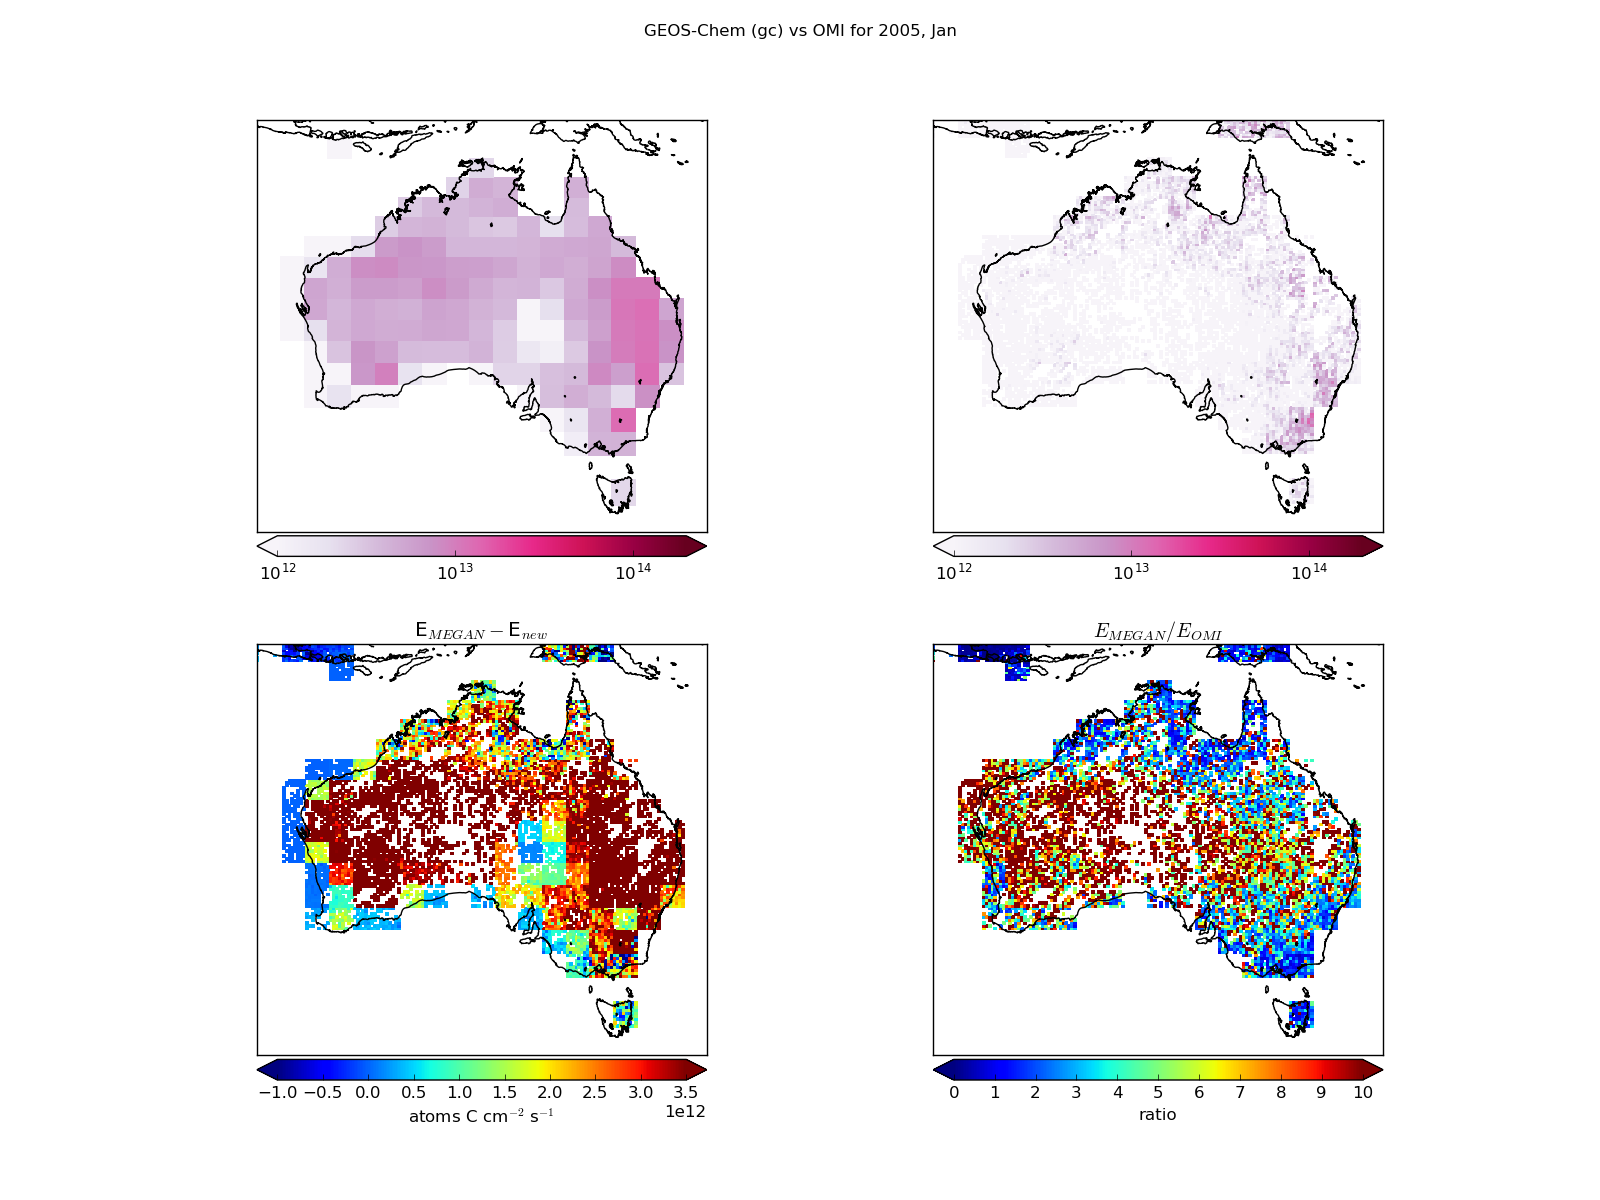
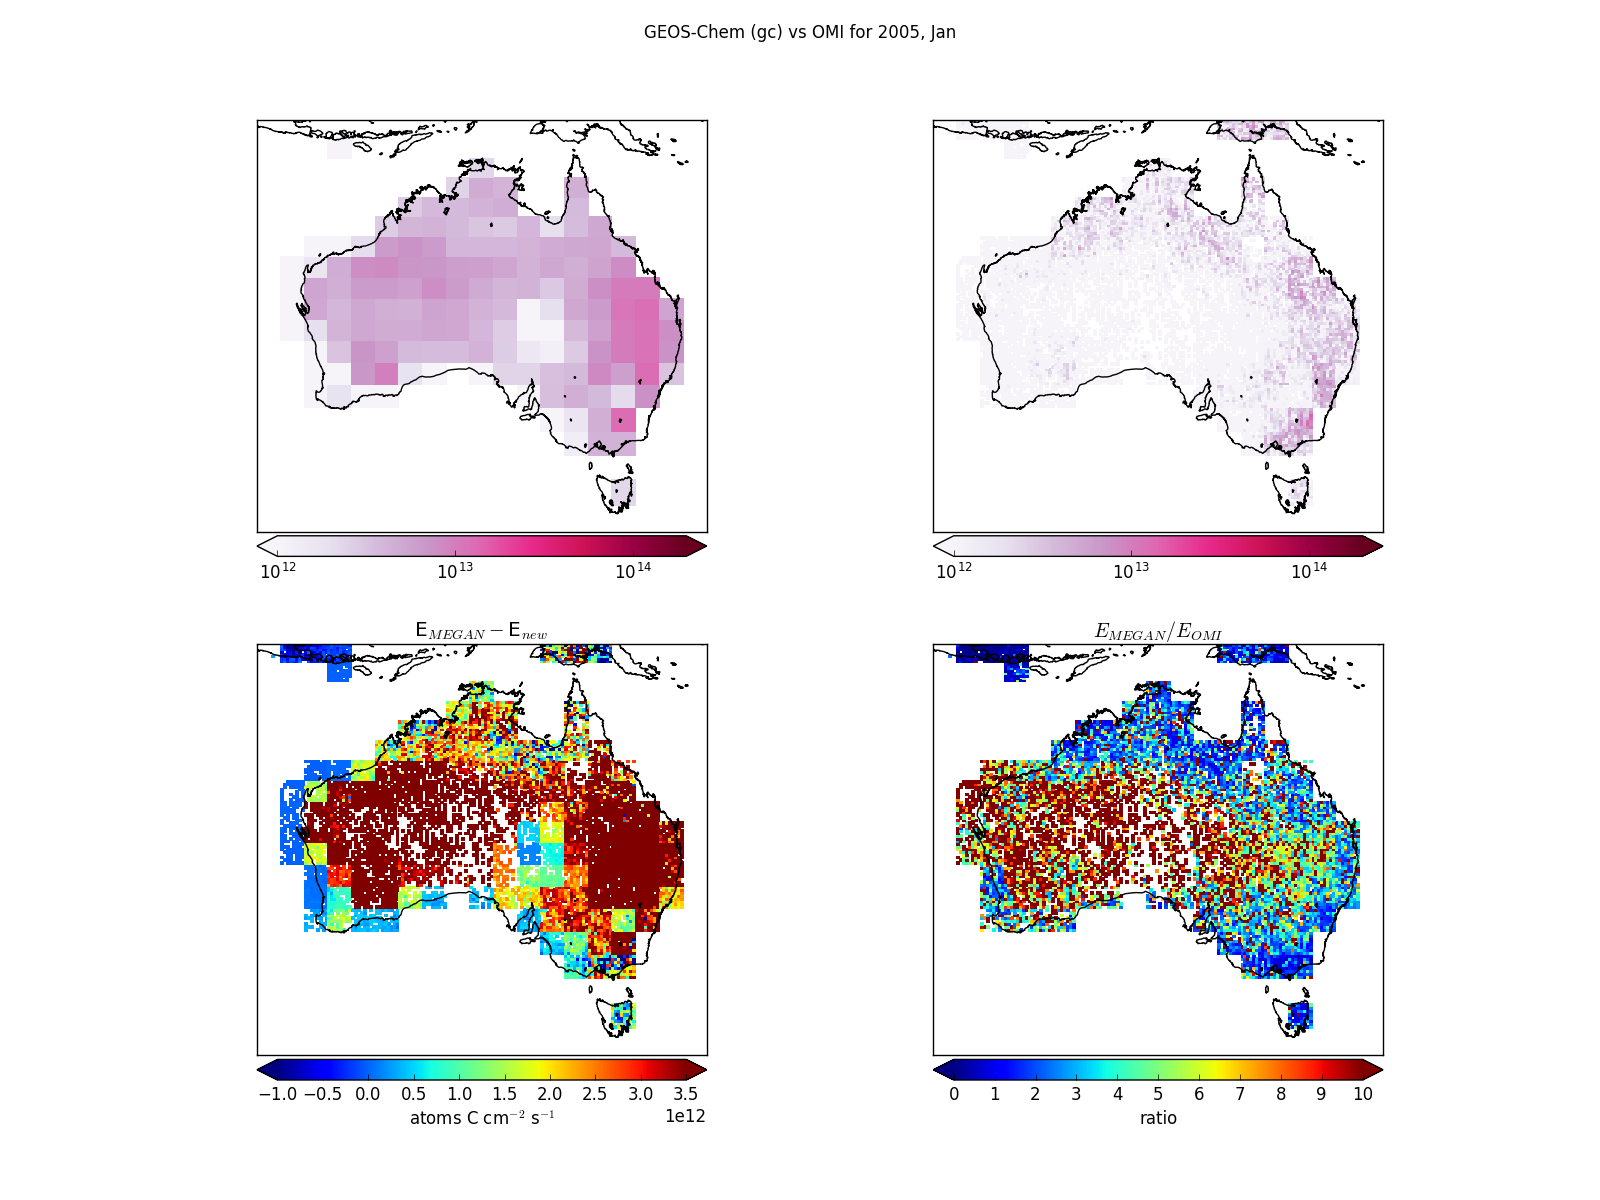
Updated isoprene emissions comparison

diff --git a/Analyse_E_isop.py b/Analyse_E_isop.py
@@ -213,7 +213,9 @@ def map_E_new(month=datetime(2005,1,1), GC=None, OMI=None,
                  clabel=r'Atoms C cm$^{-2}$ s$^{-1}$', cmapname=cmapname)
 
 
-def E_gc_VS_E_new(d0=datetime(2005,1,1), d1=datetime(2005,1,31), smoothed=False,
+def E_gc_VS_E_new(d0=datetime(2005,1,1), d1=datetime(2005,1,31),
+                  lowres=True,
+                  smoothed=False,
                   region=pp.__AUSREGION__):
     '''
         Plot E_gc, E_new, diff, ratio
@@ -222,36 +224,42 @@ def E_gc_VS_E_new(d0=datetime(2005,1,1), d1=datetime(2005,1,31), smoothed=False,
     dstr=d0.strftime("%Y%m")
     yyyymon=d0.strftime("%Y, %b")
     if __VERBOSE__:
-        print("running Analyse_E_isop.E_gc_VS_E_new from %s and %s"%(d0, d1))
+        print("running Analyse_E_isop.E_gc_VS_E_new from %s to %s"%(d0, d1))
 
     ## READ DATA
     GC=GC_class.Hemco_diag(day0=d0,dayn=d1,month=False)
-    gcdays, GC_E_isop=GC.daily_LT_averaged(hour=13) # atomC/cm2/s
+    gcdays, Megan_isop=GC.daily_LT_averaged(hour=13) # atomC/cm2/s
     # subset to region
     lati,loni=util.lat_lon_range(GC.lats,GC.lons,region=region)
     latsgc=GC.lats[lati]
     lonsgc=GC.lons[loni]
-    GC_E_isop=GC_E_isop[:,lati,:]
-    GC_E_isop=GC_E_isop[:,:,loni]
-    GC_E_isop=np.mean(GC_E_isop,axis=0) # average over time
+    Megan_isop=Megan_isop[:,lati,:]
+    Megan_isop=Megan_isop[:,:,loni]
+    Megan_isop=np.mean(Megan_isop,axis=0) # average over time
+    Megan_isop_compare=Megan_isop
 
     # based on OMI using GC calculated yield (slope)
     Enew=E_new(day0=d0, dayn=d1)
-    E_isop_new=Enew.E_isop # atom c/cm2/s
-    E_isop_new=np.nanmean(E_isop_new,axis=0) # average over time
+    New_isop=Enew.E_isop # atom c/cm2/s
+    New_isop=np.nanmean(New_isop,axis=0) # average over time
     omilats=Enew.lats
     omilons=Enew.lons
+    New_isop_compare=New_isop
 
-    # GEOS-Chem over our region:
-    #E_GC_sub=GC.get_field(keys=['E_isop_bio'], region=region)['E_isop_bio']
-    #Egc = np.mean(E_GC_sub['E_isop_bio'],axis=0) # average of the monthly values
-    #latsgc=E_GC_sub['lats']
-    #lonsgc=E_GC_sub['lons']
 
-    # map the lower resolution data onto the higher resolution data:
-    Egc_up=GC_E_isop
-    if len(omilats) > len(latsgc):
-        Egc_up = util.regrid(GC_E_isop,latsgc,lonsgc,omilats,omilons)
+    if lowres:
+        # map higher res to lower res
+        New_isop_compare = util.regrid_to_lower(New_isop,omilats,omilons,GC.lats_e,GC.lons_e)
+        New_isop_compare=New_isop_compare[lati,:]
+        New_isop_compare=New_isop_compare[:,loni]
+        lats,lons=latsgc,lonsgc
+    else:
+        # map the lower resolution data onto the higher resolution data:
+        #Egc_up=Megan_isop
+        #if len(omilats) > len(latsgc):
+        Megan_isop_compare = util.regrid(Megan_isop,latsgc,lonsgc,omilats,omilons)
+        lats,lons=omilats,omilons
+
 
 
     ## First plot maps of emissions:
@@ -265,13 +273,13 @@ def E_gc_VS_E_new(d0=datetime(2005,1,1), d1=datetime(2005,1,31), smoothed=False,
 
     # start with E_GC:
     plt.subplot(221)
-    pp.createmap(GC_E_isop,latsgc,lonsgc,vmin=clims[0],vmax=clims[1],GC_shift=True,
+    pp.createmap(Megan_isop,latsgc,lonsgc,vmin=clims[0],vmax=clims[1],GC_shift=True,
                  linear=vlinear,region=region,smoothed=smoothed,
                  cmapname=cmapname)
 
     # then E_new
     plt.subplot(222)
-    pp.createmap(E_isop_new,omilats,omilons,vmin=clims[0],vmax=clims[1],
+    pp.createmap(New_isop,omilats,omilons,vmin=clims[0],vmax=clims[1],
                  linear=vlinear,region=region,smoothed=smoothed,
                  cmapname=cmapname)
 
@@ -282,24 +290,26 @@ def E_gc_VS_E_new(d0=datetime(2005,1,1), d1=datetime(2005,1,31), smoothed=False,
     plt.subplot(223)
     title=r'E$_{MEGAN} - $E$_{new}$ '
     args={'region':region, 'clabel':r'atoms C cm$^{-2}$ s$^{-1}$',
-          'linear':True, 'lats':omilats, 'lons':omilons,
+          'linear':True, 'lats':lats, 'lons':lons,
           'smoothed':smoothed, 'title':title, 'cmapname':cmapname,
           'vmin':amin, 'vmax':amax}
-    pp.createmap(Egc_up - E_isop_new, **args)
+    pp.createmap(Megan_isop_compare - New_isop_compare, **args)
 
     ## Ratio map:
     plt.subplot(224)
     args['title']=r"$E_{MEGAN} / E_{OMI}$"
     args['vmin']=rmin; args['vmax']=rmax
     args['clabel']="ratio"
-    pp.createmap(Egc_up / E_isop_new, **args)
+    pp.createmap(Megan_isop_compare / New_isop_compare, **args)
 
 
     # SAVE THE FIGURE:
     #
     suptitle='GEOS-Chem (gc) vs OMI for %s'%yyyymon
     plt.suptitle(suptitle)
-    fname='Figs/GC/E_Comparison_%s%s.png'%(dstr,['','_smoothed'][smoothed])
+    fname='Figs/GC/E_Comparison_%s%s%s.png'%(dstr,
+                                             ['','_smoothed'][smoothed],
+                                             ['','_lowres'][lowres])
     plt.savefig(fname)
     print("SAVED FIGURE: %s"%fname)
     plt.close()
@@ -315,7 +325,7 @@ def E_gc_VS_E_new(d0=datetime(2005,1,1), d1=datetime(2005,1,31), smoothed=False,
         #    print ("    %s, %s, mean=%.3e"%(k, str(v.shape), np.nanmean(v)))
 
     # Print some diagnostics here.
-    for l,e in zip(['Enew','E_gc'],[E_isop_new,Egc_up]):
+    for l,e in zip(['Enew','E_gc'],[New_isop_compare,Megan_isop_compare]):
         print("%s: %s    (%s)"%(l,str(e.shape),dstr))
         print("    Has %d nans"%np.sum(np.isnan(e)))
         print("    Has %d negatives"%np.sum(e<0))
@@ -599,9 +609,9 @@ if __name__=='__main__':
     regions=pp.__AUSREGION__, SEAus#, JennySEA_fixed
 
     d0=datetime(2005,1,1); dn=datetime(2005,1,31)
-    #E_gc_VS_E_new(d0,dn)
+    E_gc_VS_E_new(d0,dn,lowres=False)
     #megan_SEA_regression()
-    Compare_to_daily_cycle()
+    #Compare_to_daily_cycle()
     #dn=datetime(2005,12,31)
     #E_new_time_series(d0,dn) # Takes a few minuts (use qsub)
     #map_E_gc(month=d0,GC=GC_tavg(d0))

diff --git a/utilities/GC_fio.py b/utilities/GC_fio.py
@@ -14,14 +14,14 @@ from pathlib import Path
 from glob import glob
 
 # Add parent folder to path
-#import os,sys,inspect
-#currentdir = os.path.dirname(os.path.abspath(inspect.getfile(inspect.currentframe())))
-#sys.path.insert(0,os.path.dirname(currentdir))
+import os,sys,inspect
+currentdir = os.path.dirname(os.path.abspath(inspect.getfile(inspect.currentframe())))
+sys.path.insert(0,os.path.dirname(currentdir))
 
 import utilities.utilities as util
-from classes.GC_class import __coords__ as GC_coords
-
-#sys.path.pop(0)
+#from classes.GC_class import __coords__ as GC_coords
+GC_coords = ['lev','lon','lat','time']
+sys.path.pop(0)
 
 
 ##################
